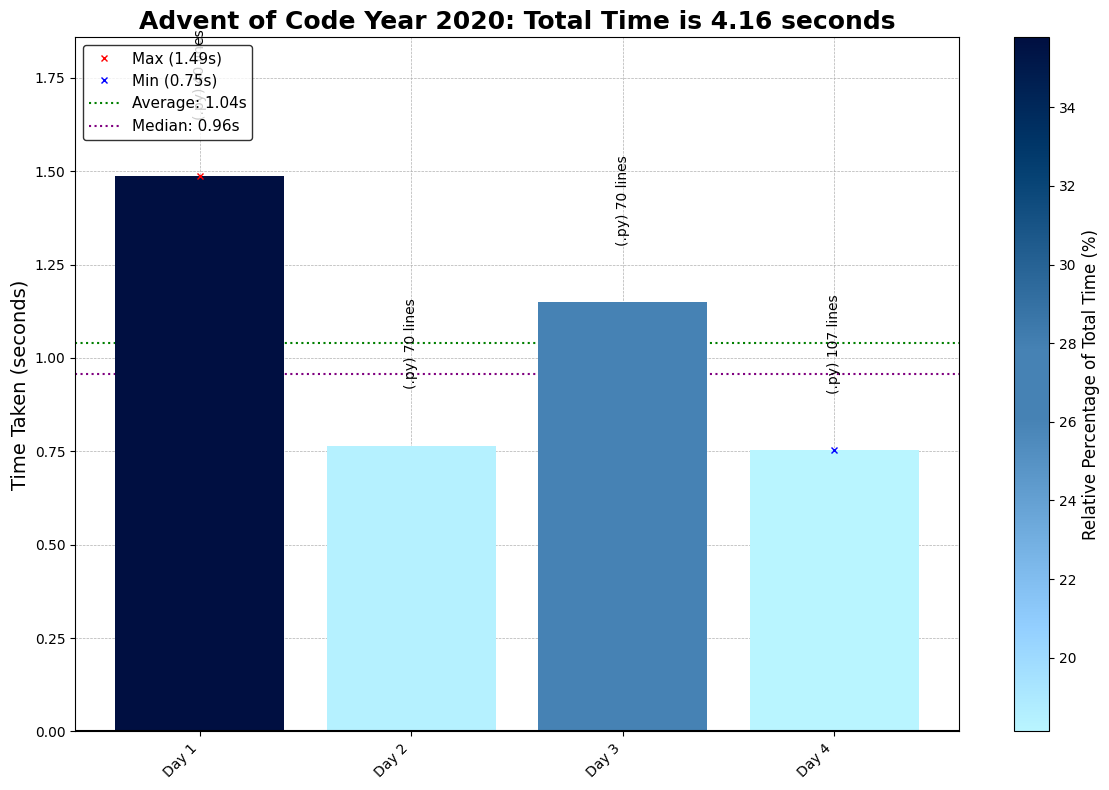
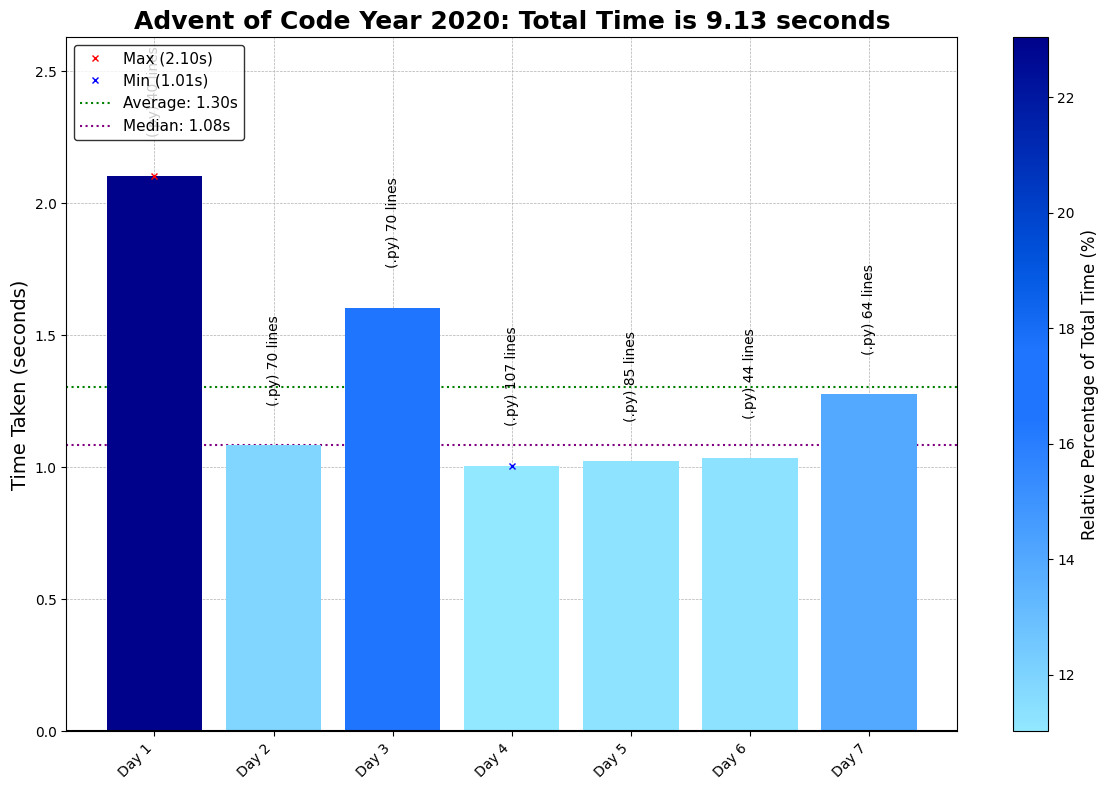
2020 Day 05, 06, & 07

diff --git a/2020/05/2020Day05.py b/2020/05/2020Day05.py
@@ -1,0 +1,85 @@
+# Advent of Code - Day 5, Year 2020
+# Solution Started: Nov 20, 2024
+# Puzzle Link: https://adventofcode.com/2020/day/5
+# Solution by: [abbasmoosajee07]
+# Brief: [Plane Seating Charts]
+
+#!/usr/bin/env python3
+
+import os, re, copy
+import numpy as np
+import pandas as pd
+import matplotlib.pyplot as plt
+
+# Load the input data from the specified file path
+D05_file = "Day05_input.txt"
+D05_file_path = os.path.join(os.path.dirname(os.path.abspath(__file__)), D05_file)
+
+# Read and sort input data into a grid
+with open(D05_file_path) as file:
+    input_data = file.read().strip().split('\n')
+    seat_list = [list(seat) for seat in input_data]
+
+def split_list(list, dir):
+    mid = len(list) // 2  # Find the midpoint
+    front = list[:mid]
+    back = list[mid:]
+    if dir in ['F', 'L']:
+        remaining = front
+    elif dir in ['B', 'R']:
+        remaining = back
+    return remaining
+
+def find_seat_id(seat, plane_size):
+    # Find row seat is in
+    rows_rem = list(range(0, plane_size[0]))
+    cols_rem = list(range(0, plane_size[1]))
+
+    for dir in seat[0:7]:
+        rows_rem = split_list(rows_rem, dir)
+
+    for dir in seat[7:]:
+        cols_rem = split_list(cols_rem, dir)
+    seat_coord = (rows_rem[0], cols_rem[0])
+    seat_id = (rows_rem[0] * 8) + cols_rem[0]
+    return seat_coord, seat_id
+
+def decode_seats(seat_list, plane_size):
+    seat_props = []
+    max_id = 0
+    min_id = float('Inf')
+    for seat in seat_list:
+        coord, id = find_seat_id(seat, plane_size)
+        max_id = max(id, max_id)
+        min_id = min(id, min_id)
+        seat_props.append([seat, coord, id])
+    return seat_props, max_id
+
+plane_size = [128, 8]
+seat_props, ans_p1 = decode_seats(seat_list, plane_size)
+print(f"Part 1: {ans_p1}")
+
+plane_map = np.zeros((plane_size[0],plane_size[1]))
+
+for seat in seat_props:
+    coords = seat[1]
+    id = seat[2]
+    plane_map[coords] = id
+
+# Flatten the plane_map to get all IDs and remove zeros (empty seats)
+existing_ids = plane_map[plane_map > 0].flatten()
+
+# Find the minimum and maximum seat IDs
+min_id = int(existing_ids.min())
+max_id = int(existing_ids.max())
+
+# Calculate the sum of the full range of IDs
+expected_sum = sum(range(min_id, max_id + 1))
+
+# Calculate the actual sum of seat IDs
+actual_sum = int(existing_ids.sum())
+
+# The missing seat ID
+missing_seat_id = expected_sum - actual_sum
+
+print("Part 2:", missing_seat_id)

diff --git a/2020/07/2020Day07.py b/2020/07/2020Day07.py
@@ -1,0 +1,64 @@
+# Advent of Code - Day 7, Year 2020
+# Solution Started: Nov 20, 2024
+# Puzzle Link: https://adventofcode.com/2020/day/7
+# Solution by: [abbasmoosajee07]
+# Brief: [Bag Sorter and Network Trees]
+
+#!/usr/bin/env python3
+
+import os, re, copy
+import numpy as np
+import pandas as pd
+import matplotlib.pyplot as plt
+
+# Load the input data from the specified file path
+D07_file = "Day07_input.txt"
+D07_file_path = os.path.join(os.path.dirname(os.path.abspath(__file__)), D07_file)
+
+# Read and sort input data into a grid
+with open(D07_file_path) as file:
+    input_data = file.read().strip().split('\n')
+
+import networkx as nx
+
+def parse_bag_rules(input_data):
+    """Parses the input data into a directed graph."""
+    graph = nx.DiGraph()  # Directed graph
+    for rule in input_data:
+        # Split the main bag and contained bags
+        main, contains = rule.split('contain')
+        main_bag = main.replace('bags', '').replace('bag', '').strip()
+        
+        if "no other bags" in contains:
+            continue  # Skip rules with no contained bags
+        
+        # Parse each contained bag
+        for item in contains.split(','):
+            item = item.strip()
+            quantity, *bag_name = item.split(' ')
+            bag_name = ' '.join(bag_name).replace('bags', '').replace('bag', '').replace('.', '').strip()
+            graph.add_edge(main_bag, bag_name, weight=int(quantity))
+    
+    return graph
+
+def part1_count_containing_bags(graph, target_bag):
+    """Counts the number of bag colors that can eventually contain the target bag."""
+    reversed_graph = graph.reverse()  # Reverse the graph
+    return len(nx.descendants(reversed_graph, target_bag))  # Find all ancestors of the target
+
+def part2_count_total_bags(graph, bag):
+    """Counts the total number of individual bags required inside the target bag."""
+    total = 0
+    for neighbor in graph[bag]:
+        quantity = graph[bag][neighbor]['weight']
+        total += quantity * (1 + part2_count_total_bags(graph, neighbor))  # Recursive calculation
+    return total
+
+# Parse the rules
+graph = parse_bag_rules(input_data)
+
+# Solve Part 1
+print("Part 1:", part1_count_containing_bags(graph, "shiny gold"))
+
+# Solve Part 2
+print("Part 2:", part2_count_total_bags(graph, "shiny gold"))

diff --git a/2020/06/2020Day06.py b/2020/06/2020Day06.py
@@ -1,0 +1,44 @@
+# Advent of Code - Day 6, Year 2020
+# Solution Started: Nov 20, 2024
+# Puzzle Link: https://adventofcode.com/2020/day/6
+# Solution by: [abbasmoosajee07]
+# Brief: [Counting strings]
+
+#!/usr/bin/env python3
+
+import os, re, copy
+import numpy as np
+import pandas as pd
+import matplotlib.pyplot as plt
+from collections import Counter
+# Load the input data from the specified file path
+D06_file = "Day06_input.txt"
+D06_file_path = os.path.join(os.path.dirname(os.path.abspath(__file__)), D06_file)
+
+# Read and sort input data into a grid
+with open(D06_file_path) as file:
+    input_data = file.read().strip().split('\n\n')
+
+def count_answers(answer_list):
+    count_p1 = 0
+    count_p2 = 0
+
+    for group in answer_list:
+        q_count = Counter(group)
+        # Part 1 Count
+        if '\n' in q_count: # Remove '\n' key
+            del q_count['\n']
+        count_p1 += len(q_count)
+
+        # Part 2: Count questions where everyone answered "yes"
+        people = group.split('\n')
+        if people:  # Ensure the group isn't empty
+            common_answers = set(people[0])  # Start with the first person's answers
+            for person in people[1:]:  # Intersect with subsequent people
+                common_answers &= set(person)
+            count_p2 += len(common_answers)
+    return count_p1, count_p2
+
+ans_p1, ans_p2 = count_answers(input_data)
+print("Part 1", ans_p1)
+print("Part 2", ans_p2)

diff --git a/2020/Run_2020.py b/2020/Run_2020.py
@@ -265,7 +265,7 @@ neon_yellow = "#FFFF00"   # Neon Yellow
 
 # Blue shades
 dark_blue = '#303F9F'     # Dark Blue
-light_blue = '#4682B4'    # Light Blue
+light_blue = '#1F75FE'    # Light Blue
 
 # Neutral colors
 black = '#212121'         # Black

diff --git a/TemplateCode.py b/TemplateCode.py
@@ -7,7 +7,7 @@
 import os, sys, time
 
 # Default values for the arguments
-DEFAULT_DAY = 3
+DEFAULT_DAY = 8
 DEFAULT_YEAR = 2020
 DEFAULT_YEAR_SOLVE = 2024
 DEFAULT_AUTHOR = 'abbasmoosajee07'
